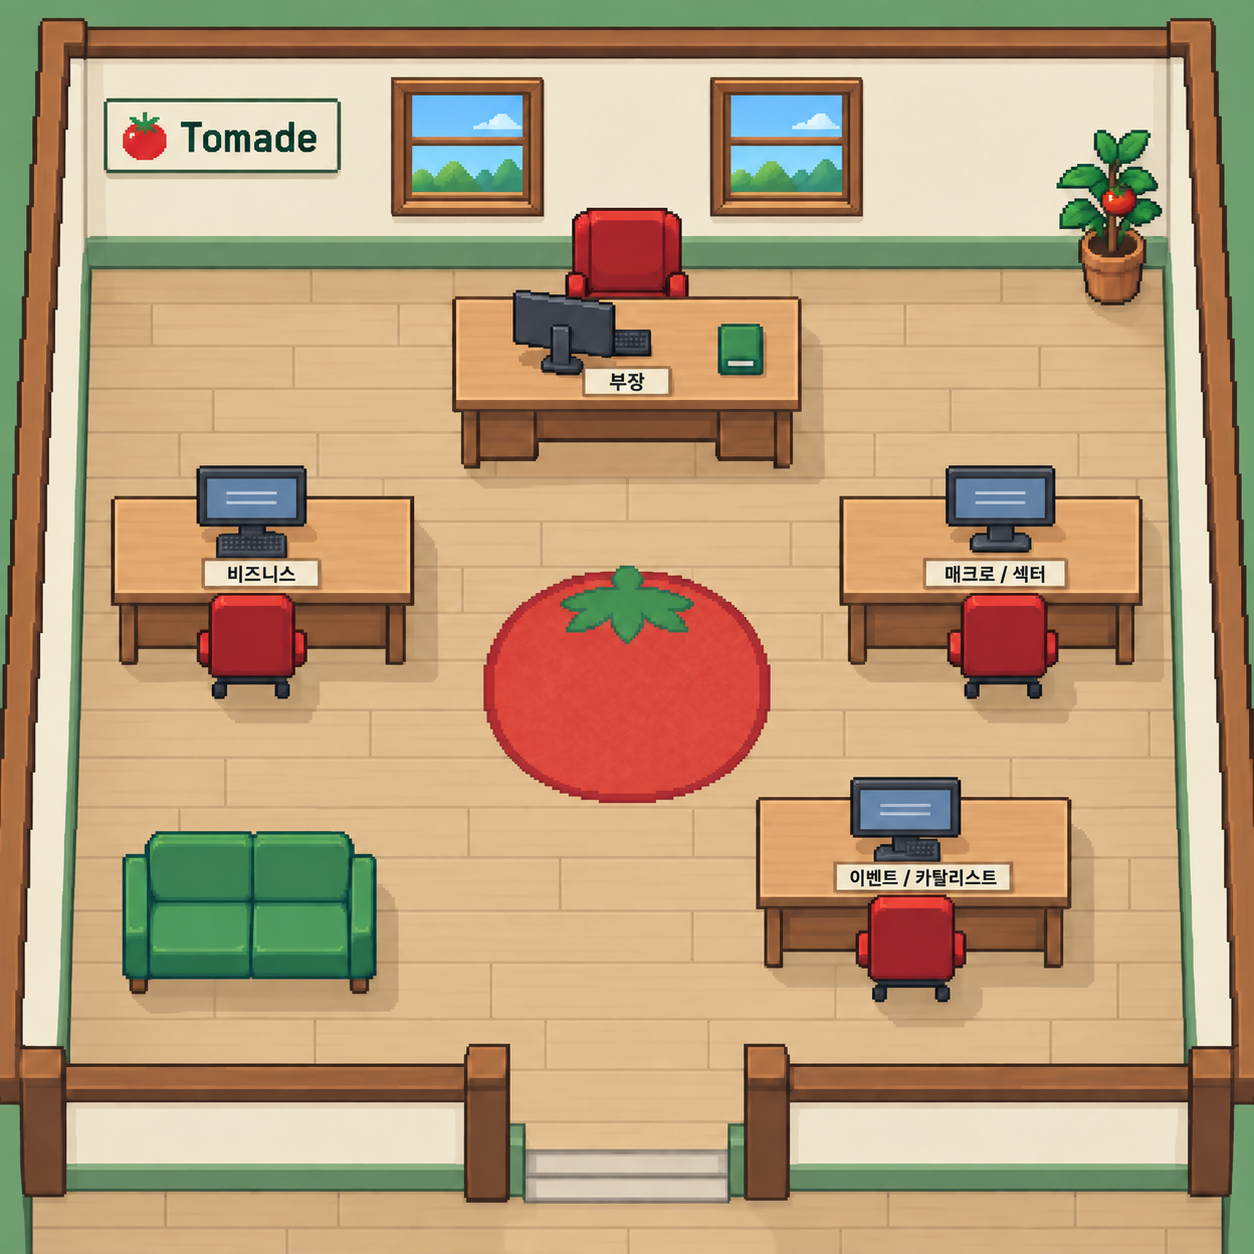
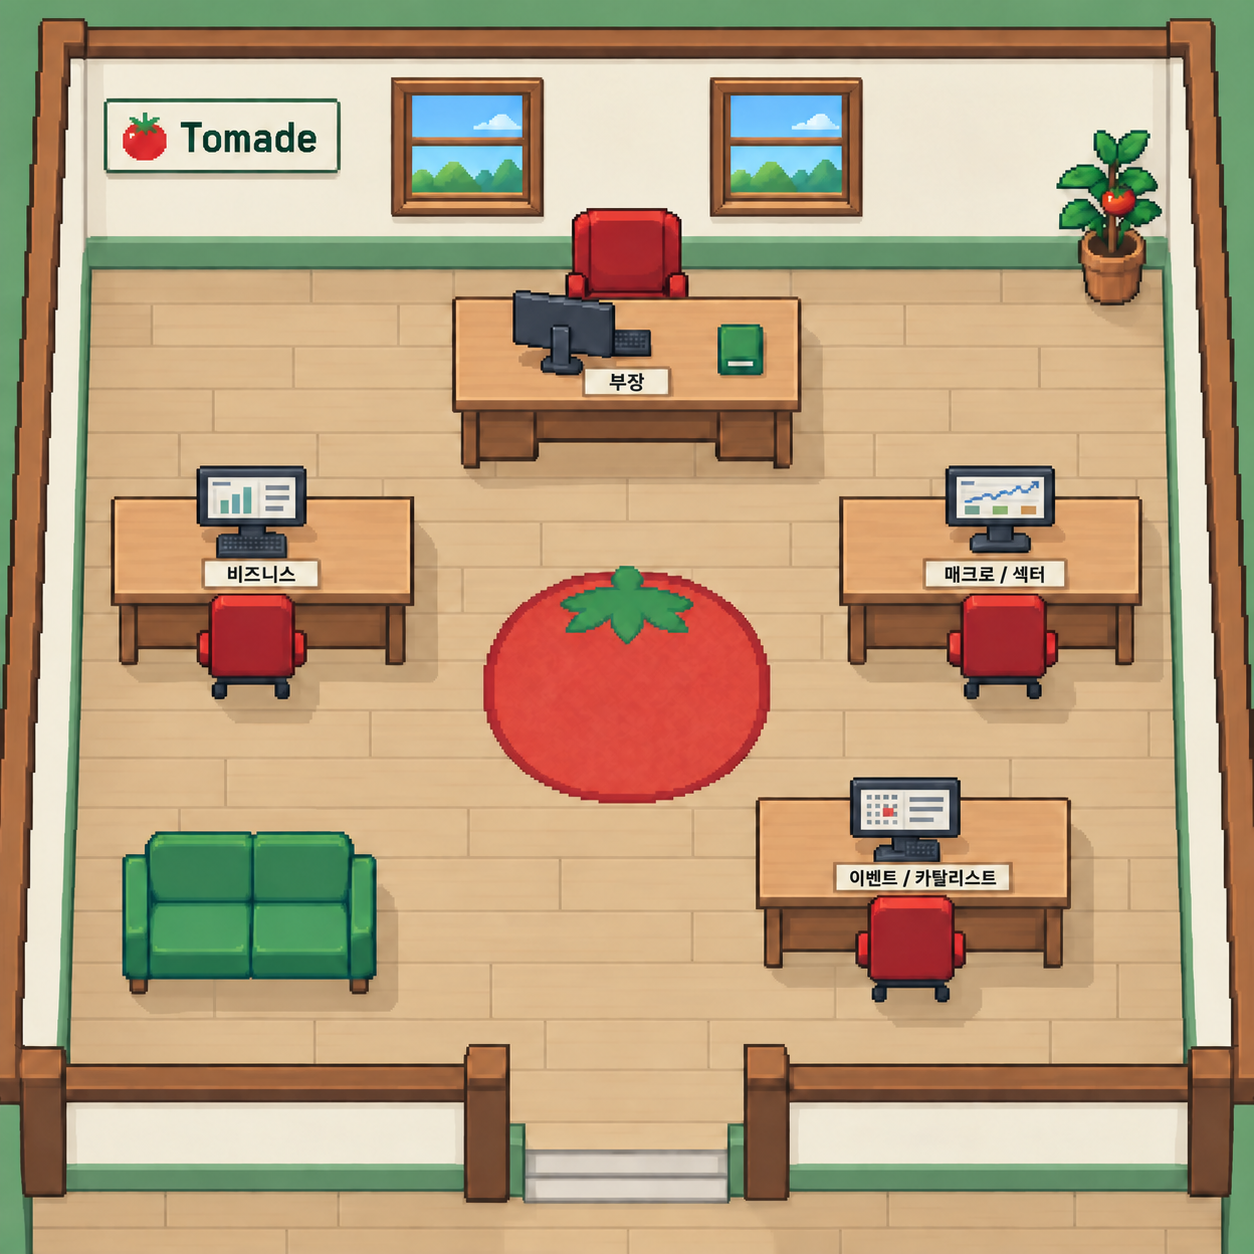
style(ui): 에이전트별 모니터에 조사 역할 화면 추가

diff --git a/frontend/assets/research-office.prompt.md b/frontend/assets/research-office.prompt.md
@@ -1,6 +1,6 @@
 # 간소화한 사무실 배경
 
-사용자가 승인한 배경을 built-in image_gen으로 편집해 `research-office.png`에 적용했습니다. 생성 원본: `exec-34eebd55-6097-4030-8d76-f9d0b0c0f9b8.png`. 네 캐릭터는 이 배경에 포함되지 않으며 별도 Canvas로 움직입니다.
+사용자가 승인한 배경을 built-in image_gen으로 편집해 `research-office.png`에 적용했습니다. 간소화 원본: `exec-34eebd55-6097-4030-8d76-f9d0b0c0f9b8.png`. 모니터 역할 화면을 추가한 최종 원본: `/Users/anjeongseob/.codex/generated_images/01a09e8f-b7c6-7990-aeaf-b83cc9294f84/exec-27e79b7b-fb26-4659-b4b2-424efa95ed71.png`. 네 캐릭터는 이 배경에 포함되지 않으며 별도 Canvas로 움직입니다.
 
 ## 간소화 프롬프트
 
@@ -51,3 +51,19 @@ Change ONLY these two things:
 The TOP CENTER MANAGER monitor stays EXACTLY as it is showing its BACK to the viewer, since its chair sits above the desk. This manager orientation is already correct; do not change it.
 Everything else stays exactly the same. Empty chairs, no people, no new props, no labels added. Crisp intentional fine-pixel 2D game background, no gradients, no new decorative detail. Surgical cleanup, not a redesign.
 
+## 에이전트별 모니터 화면
+
+Use case: precise-object-edit.
+Asset type: production 2D pixel-art office background for the Tomade app.
+Input image 1 is the EDIT TARGET. Keep the same square dimensions, complete room layout and exact furniture footprints.
+
+Change ONLY the visible screen interiors of the THREE worker monitors. Replace their generic pale horizontal lines with tiny recognizable application windows that represent each worker's research role:
+- Middle-left desk labeled "비즈니스": a minimal business earnings dashboard. One slim muted title bar, 3 or 4 clean sage/blue vertical revenue bars on the left, two or three short dark document rows on the right, ivory screen background.
+- Middle-right desk labeled "매크로 / 섹터": a minimal market/sector dashboard. One slim muted title bar, a simple stepped market trend line in muted blue in the upper portion and a few small sage/ochre sector blocks below, ivory screen background.
+- Lower-right desk labeled "이벤트 / 카탈리스트": a minimal calendar and news window. One slim muted title bar, a small neat calendar grid with ONE tomato-red highlighted date on the left, three short news-list lines on the right, ivory screen background.
+
+Each display stays strictly inside its EXISTING dark bezel, preserving its current size, position, perspective and keyboard. These are tiny tasteful role icons rendered as coherent fine square pixel clusters, not detailed readable data. No letters, numbers, extra labels or floating UI. Enough contrast to distinguish bars, trend and calendar at the real display size, but no bright glow or clutter.
+
+CRITICAL INVARIANTS: All pixels outside these three screen interiors should remain unchanged. Preserve the "Tomade" sign and tomato logo, all four Korean desk labels exactly as supplied, plain tomato rug, pale oak floor and sparse seams, plain ivory/sage walls, windows, red chairs, sofa and single tomato plant. Do not move or resize any furniture or alter the lighting, composition or palette.
+The TOP-CENTER MANAGER monitor correctly shows its BACK to the viewer because the manager chair is behind the desk. Leave it entirely unchanged; do not draw a screen on its back or rotate it.
+No people, extra monitors, extra props, decoration, photorealism, painterly texture, gradients or redesign. Surgical monitor-content edit only.

diff --git a/frontend/assets/README.md b/frontend/assets/README.md
@@ -2,6 +2,8 @@
 
 `research-office.png`는 사용자가 승인한 간소화 배경입니다. 토마토 로고·중앙 러그·네 작업 공간을 유지하고 책더미, 벽 장식, 화분과 복잡한 무늬를 줄였습니다. built-in `image_gen` 편집 원본은 별도로 보존했으며 실제 캐릭터와 대화는 HTML·Canvas로 표시합니다. [최종 배경 프롬프트](research-office.prompt.md)를 함께 보존했습니다.
 
+세 Worker 모니터에는 비즈니스의 실적 막대 차트, 매크로/섹터의 시장 추세선·산업 블록, 이벤트/카탈리스트의 일정·뉴스 목록을 표시합니다. 역할을 구분하는 배경 그래픽이며 실시간 데이터나 실제 조사 결과를 표시하지 않습니다. 부장 모니터는 좌석 방향에 맞춰 뒷면을 유지합니다.
+
 `office-characters.png`는 같은 시안의 네 인물을 기준으로 built-in `image_gen`으로 만든 캐릭터 시트입니다. 4개 행은 부장·비즈니스·매크로·이벤트이며, 각 행의 4개 자세는 정면·뒷모습·오른쪽 걷기·착석입니다. 시트의 자홍색 배경은 파일의 투명 채널이 아니므로 `office-scene.ts`에서 로딩 시 한 번 투명 처리합니다. 원본 그림의 비율을 유지해 128×160 Canvas에 표시하며 부장 초상화도 같은 시트에서 가져옵니다. 얼굴을 도형으로 다시 그리지 않습니다.
 
 캐릭터 생성·편집 프롬프트는 [office-characters.prompt.md](office-characters.prompt.md)에 보존했습니다.
